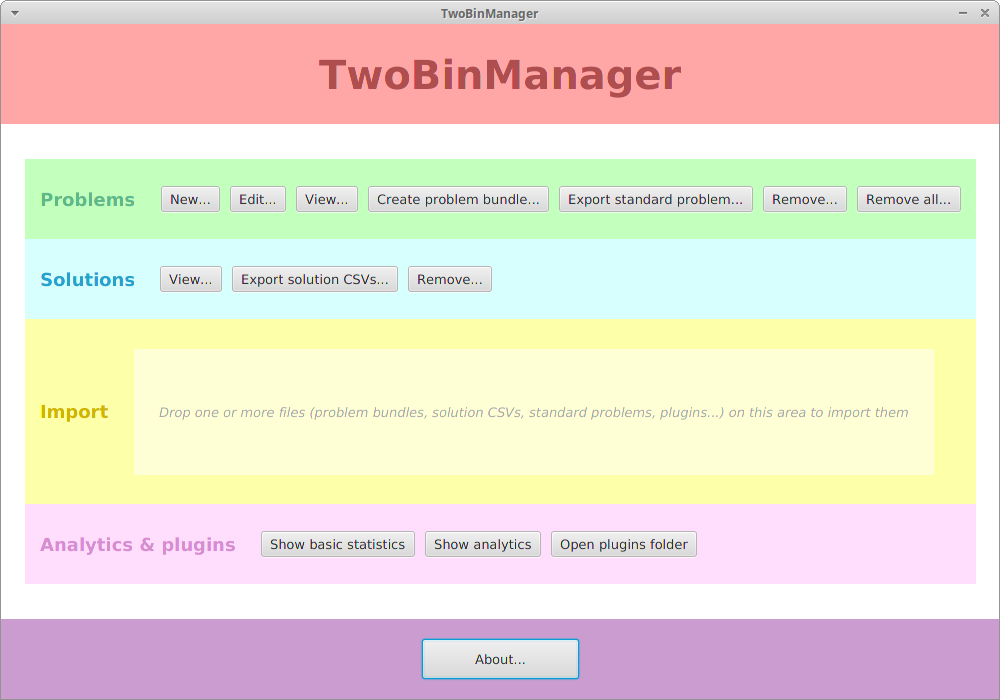
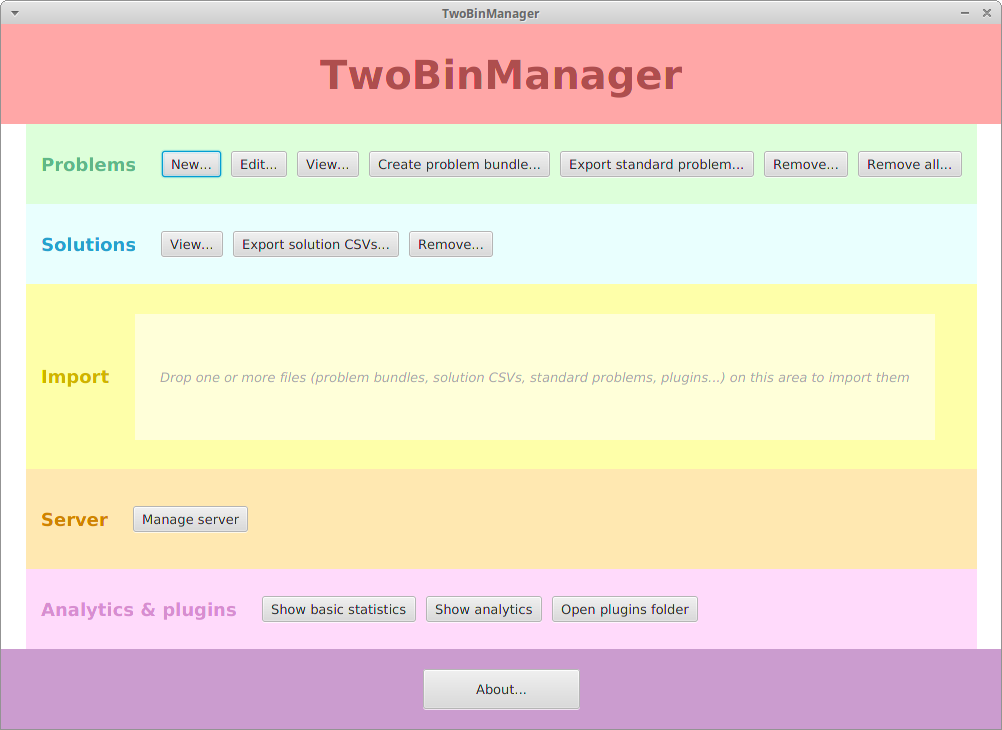
Update the screenshots

diff --git a/README.md b/README.md
@@ -31,6 +31,8 @@ TwoBinManager is designed to be user-friendly and very intuitive; however, in ca
 
 ## Screenshots
 
+![Server management](images/screenshots/ServerStage.png)
+
 ![View problem](images/screenshots/ViewProblemStage.png)
 
 ![View solutions](images/screenshots/ViewSolutionsStage.png)
@@ -38,6 +40,8 @@ TwoBinManager is designed to be user-friendly and very intuitive; however, in ca
 
 
 ## Further references
+
+* [TwoBinManager - SDK](https://github.com/giancosta86/TwoBinManager-sdk)
 
 * [TwoBinGame](https://github.com/giancosta86/TwoBinGame)
 
